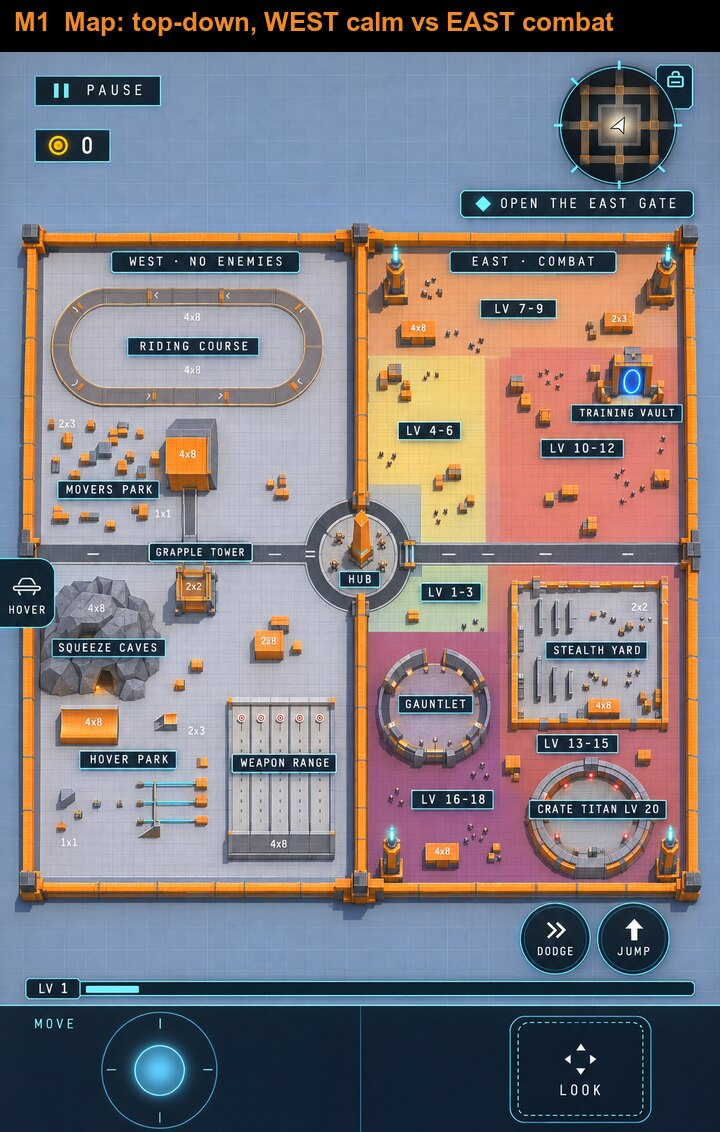
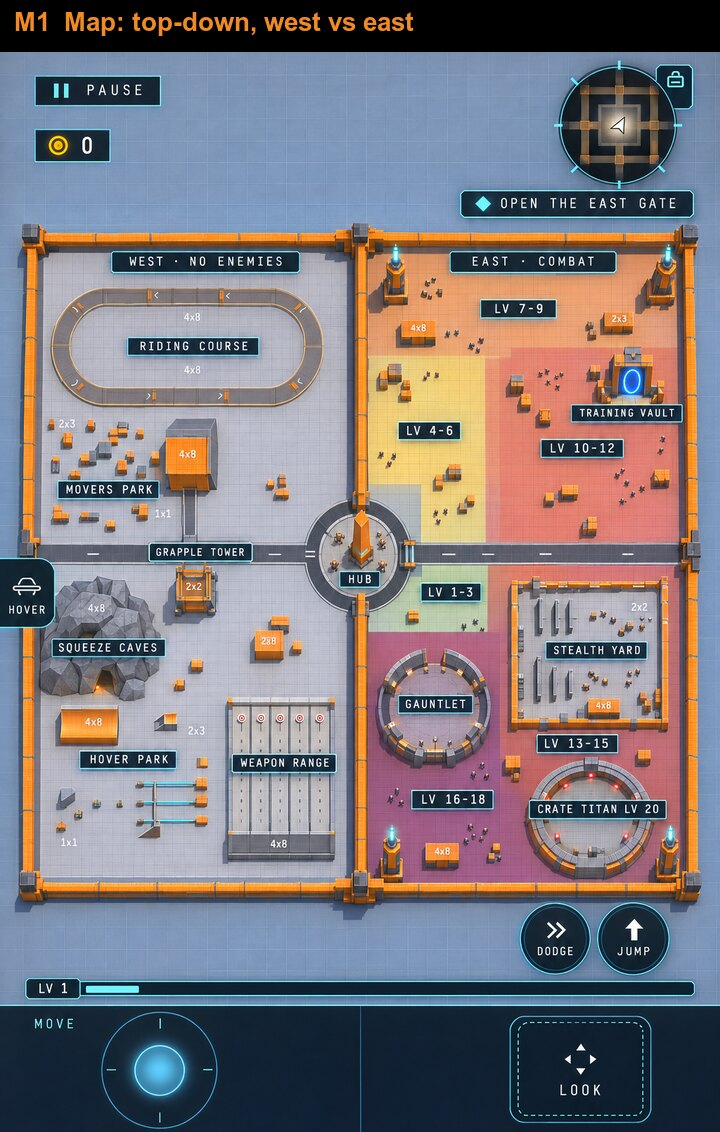
docs(kitchen-sink): v2 layout boards and gallery
The last three frames (band 5 riveters, the stealth yard, the
checkpoint card), a re-rolled level-up with the plumb-drone quest,
shorter W1/M1 titles, one labelled board per group (map, west,
east, systems) plus an overview of all 40, and index.html: a
self-contained gallery grouped West / East / Systems / Map.

Assisted-by: Claude Code:claude-opus-5-5

Changed region(s): [[0.3667, 0.0, 0.8556, 0.0309]]

diff --git a/art/showcase-template/round-4-v2-layout/index.html b/art/showcase-template/round-4-v2-layout/index.html
@@ -1,0 +1,61 @@
+<!DOCTYPE html><html lang="en"><head><meta charset="utf-8"><meta name="viewport" content="width=device-width,initial-scale=1">
+<title>Kitchen Sink v2 · round 4 · west versus east</title><style>
+:root{color-scheme:dark}body{margin:0;background:#2b2d30;color:#eceae6;font:16px/1.5 system-ui,sans-serif}main{max-width:1100px;margin:0 auto;padding:20px 14px 60px}h1{color:#f08a24;font-size:30px;margin:0 0 6px}h2{color:#f08a24;margin:34px 0 4px;font-size:24px}p{margin:0 0 12px;color:#c9ccd1}.grid{display:grid;grid-template-columns:repeat(auto-fill,minmax(250px,1fr));gap:16px}figure{margin:0;background:#35383c;border:1px solid #4a4e54;padding:8px}img{width:100%;display:block}figcaption{font-size:14px;margin-top:6px}figcaption b{color:#f08a24}.boards img{border:1px solid #4a4e54}
+</style></head><body><main>
+<h1>KITCHEN SINK v2 · WEST VERSUS EAST</h1>
+<p>Round 4 mockups of the Showcase Template's new layout: one 500 x 500 m cell, the calm west half and the combat east half split by a seam wall with the hub on it. Codex image_gen edits of the round-5 dev-map frames, zone positions from the round-1 grey blockout (the Training Vault moved east, no 9-leg chain). Enemy and mini-boss names come from round-3-levels; NPC names (Quartermaster Ada, Tinker Rook, Warden Scout) are placeholders.</p>
+<h2>West</h2><p>Non-combat, no enemies, pays nothing: fun and practice.</p><div class="grid">
+<figure><img src="w01-hub.jpg" alt="West: the hub, givers and shops" loading="lazy"><figcaption><b>W1</b> The hub on the seam wall: a 30 m obelisk, quest givers (yellow &quot;!&quot; eligible, grey &quot;!&quot; too low), SUPPLY, UPGRADES and the CONTRACTS board.</figcaption></figure>
+<figure><img src="w02-contract-board.jpg" alt="West: kill-contract board close-up" loading="lazy"><figcaption><b>W2</b> The kill-contract board: kills for coins, from 5 crate mites up to the Crate Titan; the high ones stay locked until your level.</figcaption></figure>
+<figure><img src="w03-grey-quest.jpg" alt="West: grey ! quest, too low (Lv 12)" loading="lazy"><figcaption><b>W3</b> A quest you are too low for: the giver wears a grey &quot;!&quot; and the accept button says REQUIRES LV 12.</figcaption></figure>
+<figure><img src="w04-upgrade-shop.jpg" alt="West: upgrade shop panel" loading="lazy"><figcaption><b>W4</b> The upgrade shop behind the vendor: Whetstone, Sturdy Heart and friends, paid with coins from east kills.</figcaption></figure>
+<figure><img src="w05-range-rifle.jpg" alt="West: range, lever rifle" loading="lazy"><figcaption><b>W5</b> The weapon range, lever rifle lane: targets at 25, 50 and 75 m into a berm, hit numbers, no enemies.</figcaption></figure>
+<figure><img src="w06-crossbow-ammo.jpg" alt="West: range, crossbow ammo picker" loading="lazy"><figcaption><b>W6</b> The crossbow lane with the ammo picker: iron, pitch (sets targets alight) and broadhead bolts.</figcaption></figure>
+<figure><img src="w07-hover-park.jpg" alt="West: hoverboard park, trick score" loading="lazy"><figcaption><b>W7</b> The hoverboard and physics park: halfpipe, kickers and see-saw, with a running trick combo score.</figcaption></figure>
+<figure><img src="w08-grapple-zip.jpg" alt="West: grapple tower and zipline" loading="lazy"><figcaption><b>W8</b> Top of the 45 m grapple tower: lock a hook on the far mast, then ride the zipline across the west half.</figcaption></figure>
+<figure><img src="w09-movers-park.jpg" alt="West: movers park" loading="lazy"><figcaption><b>W9</b> The movers park: lifts, spinners, sliding platforms, conveyors and jump pads climbing to the cistern roof.</figcaption></figure>
+<figure><img src="w10-riding.jpg" alt="West: riding course, loaner horse" loading="lazy"><figcaption><b>W10</b> The riding course on a loaner dev-bot horse from the stable hand: ring gates and a lap timer, course only.</figcaption></figure>
+<figure><img src="w11-vista-bench.jpg" alt="West: vista bench + FINDS toast" loading="lazy"><figcaption><b>W11</b> A vista bench on the cistern roof: the whole cell below, and the FINDS place-discovered toast.</figcaption></figure>
+<figure><img src="w12-secret-cache.jpg" alt="West: squeeze cave, hidden cache" loading="lazy"><figcaption><b>W12</b> A squeeze cave in the cave hill with a hidden cache, one of the secrets ring.</figcaption></figure>
+<figure><img src="w13-trophy-wall.jpg" alt="West: trophy wall in the hub" loading="lazy"><figcaption><b>W13</b> The trophy wall in the hub: trophies from mini-bosses and elites, each with a small perk.</figcaption></figure>
+</div>
+<h2>East</h2><p>Combat only, a Guild Wars-style climb from level 1 to 20; XP only from kills.</p><div class="grid">
+<figure><img src="e01-band1.jpg" alt="East: band 1, Crate Mite Lv 2" loading="lazy"><figcaption><b>E1</b> Band 1 just past the east gate: crate mites, Lv 1-3, green nameplates. Cover between packs.</figcaption></figure>
+<figure><img src="e02-band2.jpg" alt="East: band 2, Pallet Jack Lv 5" loading="lazy"><figcaption><b>E2</b> Band 2 north of the hub: pallet jacks, Lv 4-6, chargers with forklift tines, yellow nameplates.</figcaption></figure>
+<figure><img src="e03-band3.jpg" alt="East: band 3, Plumb Drone Lv 8" loading="lazy"><figcaption><b>E3</b> Band 3 along the north edge: plumb drones, Lv 7-9, nail-gun kiters, orange nameplates, a loot chest.</figcaption></figure>
+<figure><img src="e04-band4.jpg" alt="East: band 4, Welder Unit Lv 11" loading="lazy"><figcaption><b>E4</b> Band 4 in the north-east: a welder unit, Lv 10-12, flame cone and slag puddles, red nameplate; a loot chest.</figcaption></figure>
+<figure><img src="e05-band5.jpg" alt="East: band 5, Riveter Lv 14" loading="lazy"><figcaption><b>E5</b> Band 5 in the south-east: riveters, Lv 13-15, riot-plate tanks with a slam ring, crimson nameplates.</figcaption></figure>
+<figure><img src="e06-band6.jpg" alt="East: band 6, Arc Sentry Lv 17" loading="lazy"><figcaption><b>E6</b> Band 6 in the south: arc sentries, Lv 16-18, shock-lance duellists that parry, purple nameplates.</figcaption></figure>
+<figure><img src="e07-boxjaw.jpg" alt="East: mini-boss Big Pallet, Lv 6" loading="lazy"><figcaption><b>E7</b> Mini-boss 1: Big Pallet, Lv 6, the pallet jacks&#x27; king, open world in band 2; it throws crates.</figcaption></figure>
+<figure><img src="e08-vault-entrance.jpg" alt="East: Training Vault portal" loading="lazy"><figcaption><b>E8</b> The Training Vault portal in band 4: the 4-room mini dungeon (puzzle, fight, climb, Warden).</figcaption></figure>
+<figure><img src="e09-vault-warden.jpg" alt="East: mini-boss Vault Warden, Lv 12" loading="lazy"><figcaption><b>E9</b> Mini-boss 2: the Vault Warden, Lv 12, in room 4 of the Training Vault.</figcaption></figure>
+<figure><img src="e10-stealth-yard.jpg" alt="East: stealth yard" loading="lazy"><figcaption><b>E10</b> The stealth yard in band 5: riveter patrols with lamp vision cones; steal the keycard unseen.</figcaption></figure>
+<figure><img src="e11-gauntlet-waves.jpg" alt="East: elite gauntlet waves" loading="lazy"><figcaption><b>E11</b> The elite gauntlet in band 6: five waves through three gates, with named elites.</figcaption></figure>
+<figure><img src="e12-foreman.jpg" alt="East: mini-boss Foreman Unit 7, Lv 18" loading="lazy"><figcaption><b>E12</b> Mini-boss 3: Foreman Unit 7, Lv 18, the gauntlet&#x27;s last wave; he whistles in buffed crate mites.</figcaption></figure>
+<figure><img src="e13-titan-intro.jpg" alt="East: Crate Titan cutscene intro" loading="lazy"><figcaption><b>E13</b> The Crate Titan&#x27;s in-engine cutscene intro: HUD hidden, letterbox, title card, tap to skip.</figcaption></figure>
+<figure><img src="e14-titan-fight.jpg" alt="East: Crate Titan fight, Lv 20" loading="lazy"><figcaption><b>E14</b> The Lv 20 Crate Titan fight in the amphitheatre: phases, slam telegraphs, falling crates.</figcaption></figure>
+</div>
+<h2>Systems</h2><p>Levels, XP, storm hour, cards and toasts.</p><div class="grid">
+<figure><img src="s01-level-up.jpg" alt="Systems: level-up moment" loading="lazy"><figcaption><b>S1</b> Level-up: the XP bar fills, LEVEL UP 7, one attribute point to spend. XP comes only from kills.</figcaption></figure>
+<figure><img src="s02-xp-bar.jpg" alt="Systems: XP bar after a kill" loading="lazy"><figcaption><b>S2</b> The XP bar above the controls: level chip, 320 / 500 XP, +45 XP from a pallet jack.</figcaption></figure>
+<figure><img src="s03-storm-hour.jpg" alt="Systems: storm hour, beacons 1/4" loading="lazy"><figcaption><b>S3</b> Storm hour: the whole cell in an evening storm, lamp-eyed night-shift enemies out, until the four beacons are lit.</figcaption></figure>
+<figure><img src="s04-checkpoint-card.jpg" alt="Systems: quest-leg checkpoint card" loading="lazy"><figcaption><b>S4</b> A checkpoint card at the end of a quest leg: time, falls, finds.</figcaption></figure>
+<figure><img src="s05-feat-toast.jpg" alt="Systems: feat toast (joke title)" loading="lazy"><figcaption><b>S5</b> A feat toast with a joke title, stacked with a FINDS place toast.</figcaption></figure>
+<figure><img src="s06-shard-complete.jpg" alt="Systems: shard-complete card" loading="lazy"><figcaption><b>S6</b> The shard-complete card after the Titan: level, time, feats, finds, trophies, the legendary drop.</figcaption></figure>
+</div>
+<h2>Map</h2><p>The whole 500 x 500 m cell, west versus east.</p><div class="grid">
+<figure><img src="m01-topdown.jpg" alt="Map: top-down, west vs east" loading="lazy"><figcaption><b>M1</b> Top-down map, north up: the seam wall splits the calm west from the east, whose floor is banded by level.</figcaption></figure>
+<figure><img src="m02-aerial-west.jpg" alt="Map: 3/4 aerial from the west" loading="lazy"><figcaption><b>M2</b> The whole cell from the west: the playgrounds near, the seam wall and the combat bands beyond.</figcaption></figure>
+<figure><img src="m03-aerial-east.jpg" alt="Map: 3/4 aerial from the east" loading="lazy"><figcaption><b>M3</b> The whole cell from the east: the level bands, the arena, the vault and beacons near, the west far.</figcaption></figure>
+<figure><img src="m04-map-screen.jpg" alt="Map: pause &gt; MAP screen, zones + levels" loading="lazy"><figcaption><b>M4</b> Pause &gt; MAP: every zone name and each band&#x27;s level range.</figcaption></figure>
+<figure><img src="m05-minimap-border.jpg" alt="Map: minimap at the west/east border" loading="lazy"><figcaption><b>M5</b> The minimap at the east gate: calm grey on the left, the Lv 1-3 band and enemy dots on the right.</figcaption></figure>
+<figure><img src="m06-heatmap.jpg" alt="Map: level-band heat map overlay" loading="lazy"><figcaption><b>M6</b> The map screen with the level-band heat map on: danger rises with distance from the hub.</figcaption></figure>
+<figure><img src="m07-east-gate.jpg" alt="Map: the east gate in the seam wall" loading="lazy"><figcaption><b>M7</b> The east gate in the seam wall, seen from the hub: the only door from the calm half into combat.</figcaption></figure>
+</div>
+<h2>Boards</h2><div class="boards">
+<figure><img src="board-overview.jpg" alt="Overview: all 40 frames" loading="lazy"><figcaption>Overview: all 40 frames</figcaption></figure>
+<figure><img src="board-west.jpg" alt="West board" loading="lazy"><figcaption>West board</figcaption></figure>
+<figure><img src="board-east.jpg" alt="East board" loading="lazy"><figcaption>East board</figcaption></figure>
+<figure><img src="board-systems.jpg" alt="Systems board" loading="lazy"><figcaption>Systems board</figcaption></figure>
+<figure><img src="board-map.jpg" alt="Map board" loading="lazy"><figcaption>Map board</figcaption></figure>
+</div></main></body></html>
